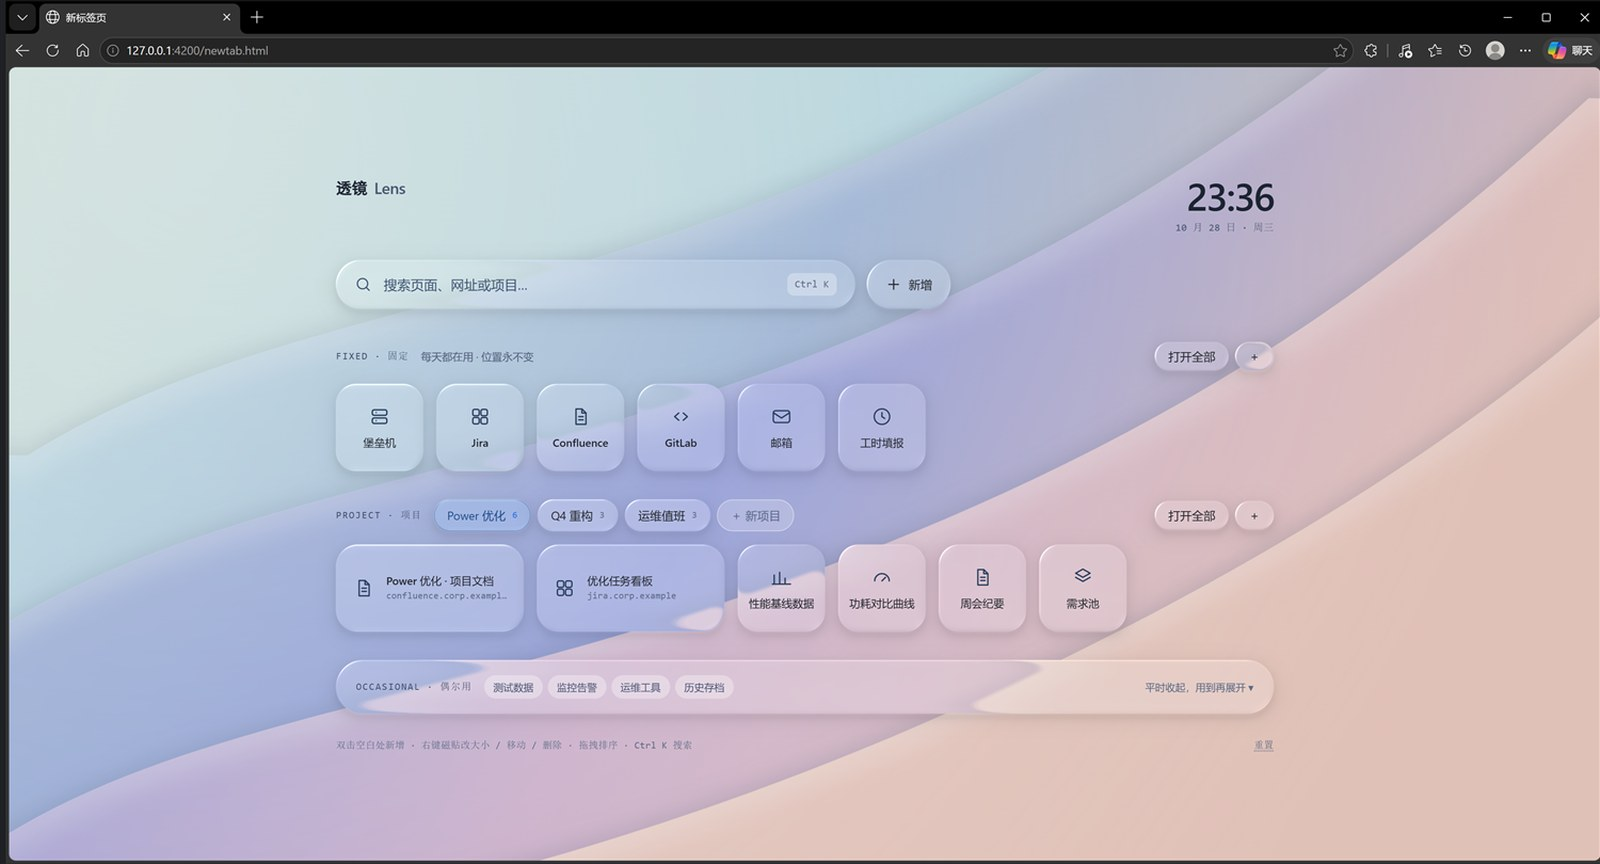
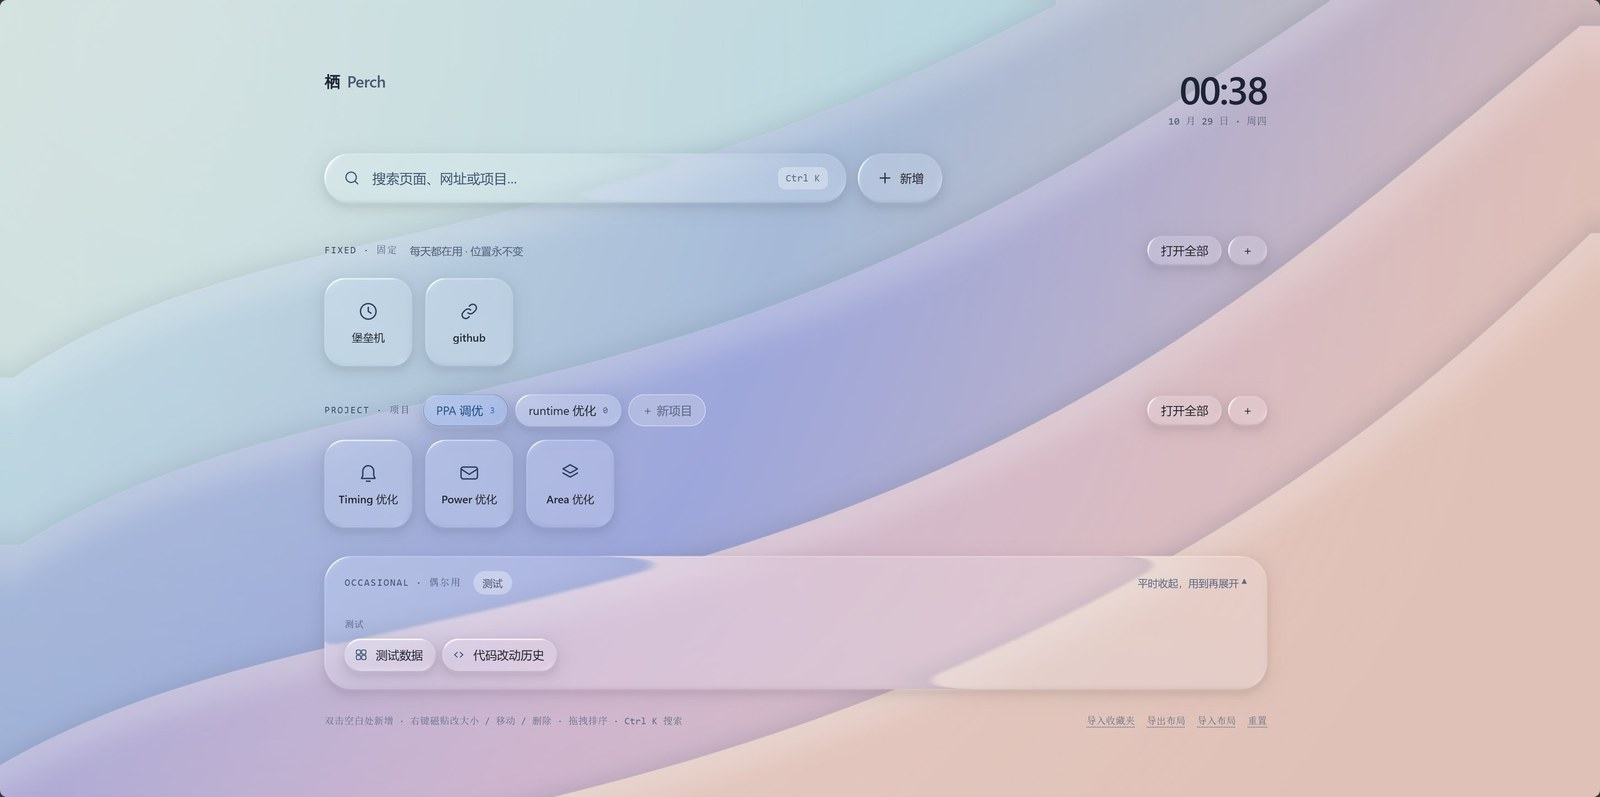
docs: 换成改名后的新截图

diff --git a/README.md b/README.md
@@ -7,8 +7,7 @@
 玻璃不是 CSS 模糊做出来的——它由 [透镜 Lens 设计系统](https://github.com/ruiqichenbiec/design-systems) 的
 WebGL2 渲染器**实时折射**背景的极光场景，移动窗口、拖拽磁贴时折射会真实变化。
 
-<!-- 截图待补：docs/preview.jpg 还是改名前的版本（页头写着"透镜 Lens"），换新截图后取消注释 -->
-<!-- ![预览](docs/preview.jpg) -->
+![预览](docs/preview.jpg)
 
 ## 它解决什么
 
@@ -71,7 +70,7 @@ src/
 vendor/lens/           透镜 Lens 设计系统运行时（上游副本，勿改，见其 UPSTREAM.md）
 icons/                 图标（由 tools/make-icons.py 生成）
 tools/make-icons.py    重新生成图标
-docs/preview.jpg       截图（待更新，还是改名前的版本）
+docs/preview.jpg       截图
 docs/sample-layout.json  可导入的示例布局
 ```
 
@@ -107,7 +106,6 @@ docs/sample-layout.json  可导入的示例布局
 
 ## 下一步
 
-- [ ] 换一张新截图（`docs/preview.jpg` 还是改名前的版本）
 - [x] 导出 / 导入布局 JSON（换机不丢数据）
 - [x] 从 Edge 收藏夹批量导入
 - [x] 项目归档（收进档案库，可恢复）
